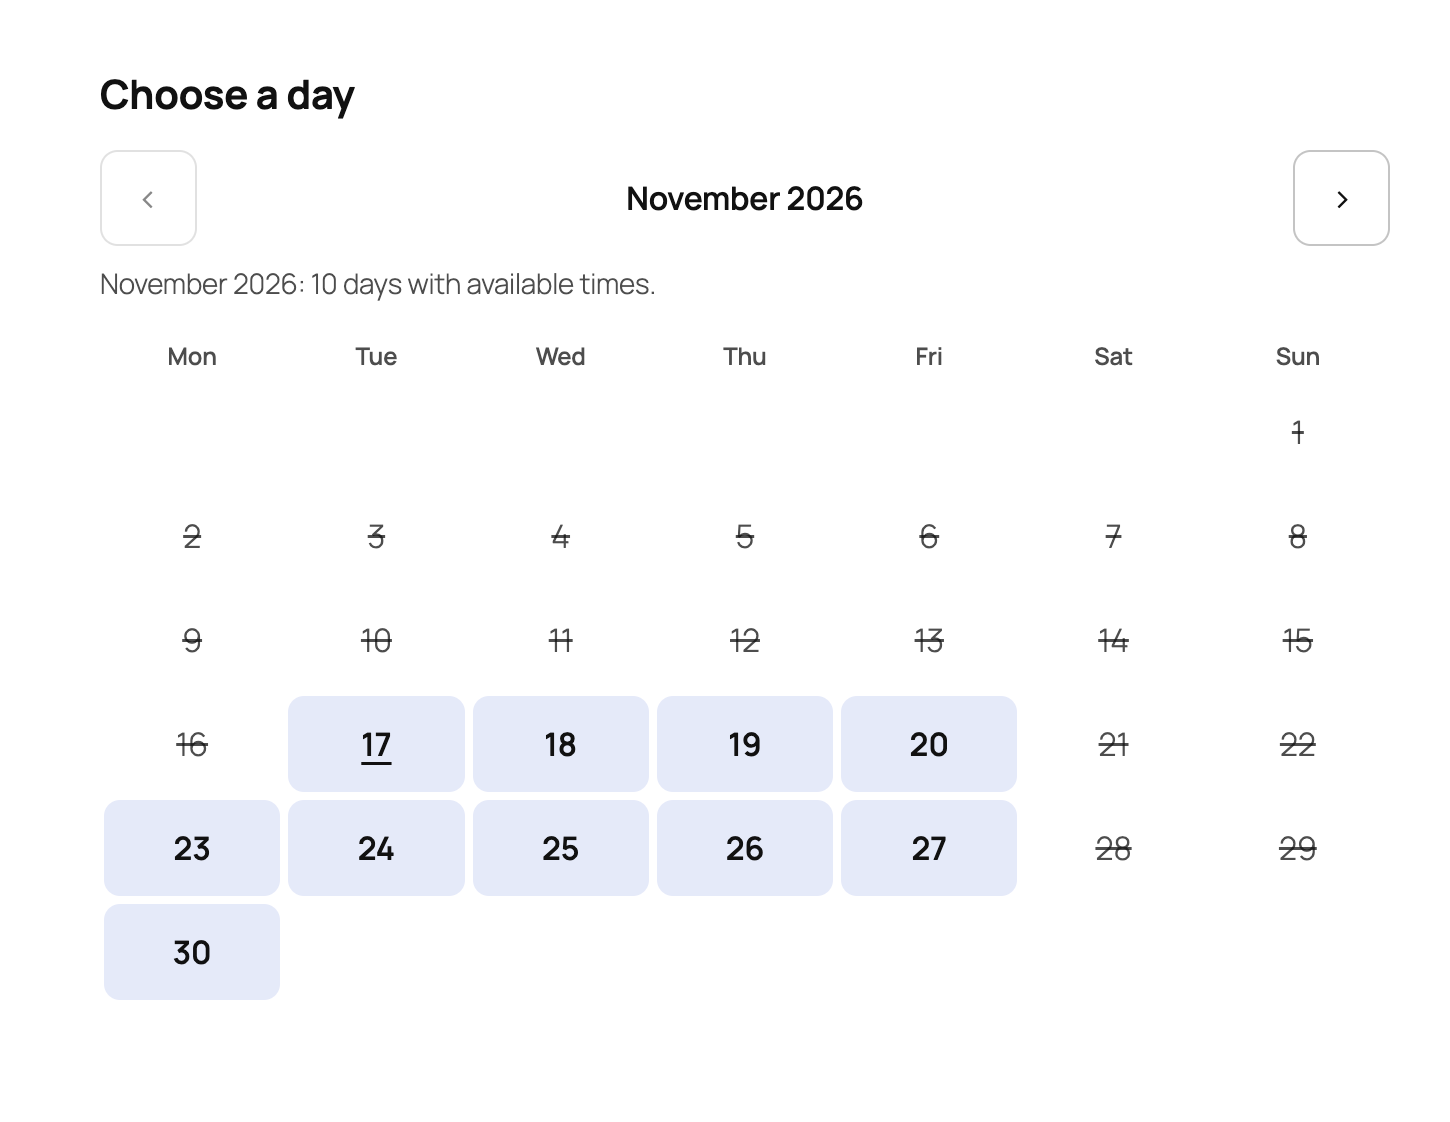
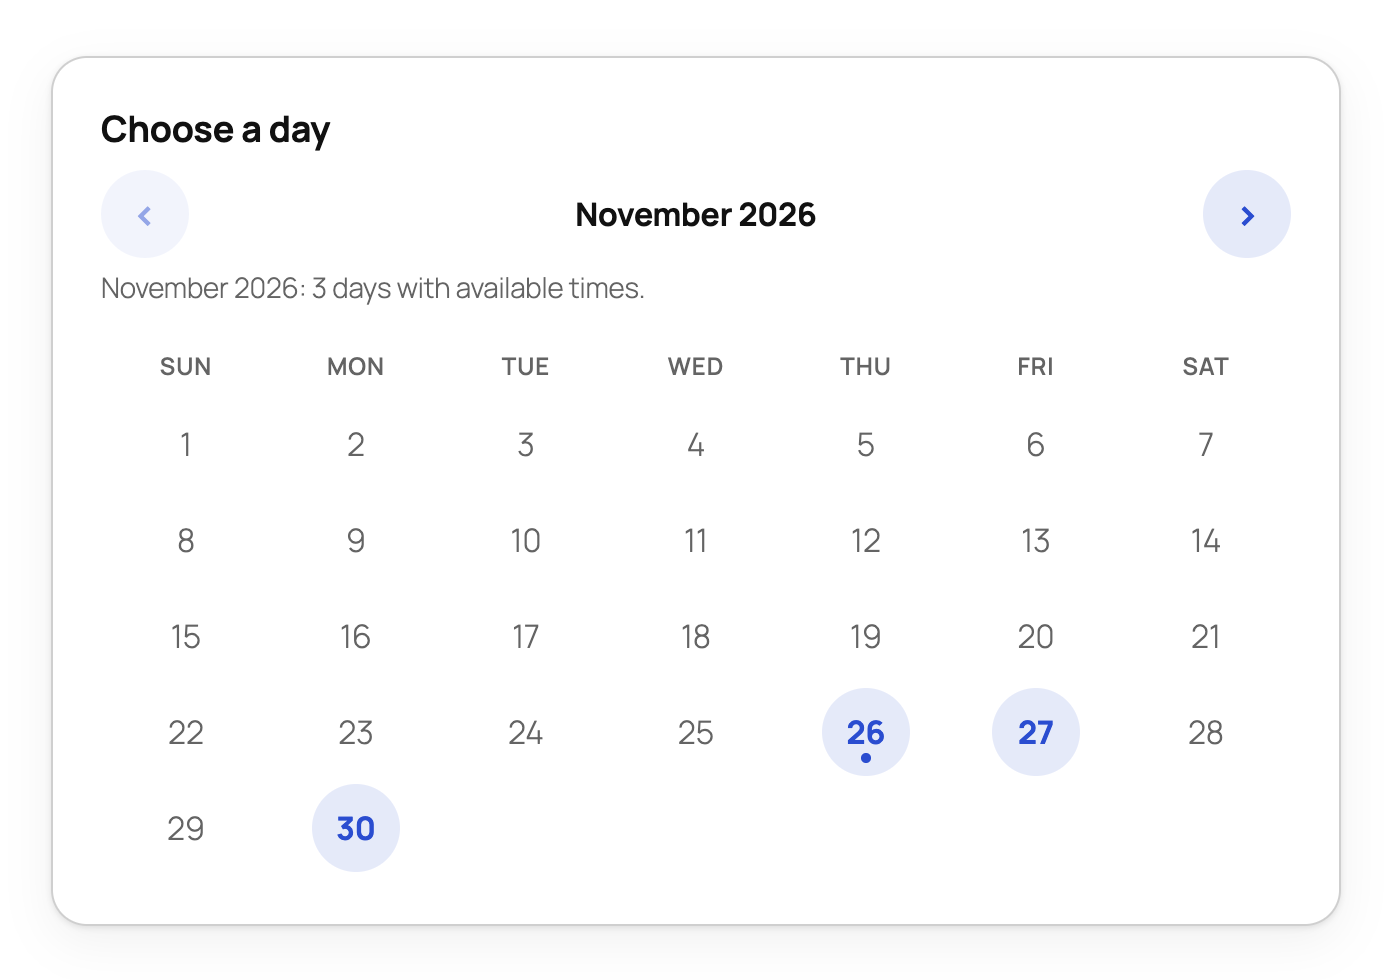
Update README screenshots for the new widget design

diff --git a/README.md b/README.md
@@ -4,7 +4,10 @@ Accessible appointment booking for WordPress and static sites. One Vue custom el
 
 _Hitzordu_ is Basque for "appointment".
 
-![The Hitzordu booking widget](docs/screenshot.png)
+<p>
+  <img src="docs/screenshot.png" alt="The Hitzordu booking widget: choosing a day on the month calendar" width="49%">
+  <img src="docs/screenshot-times.png" alt="The Hitzordu booking widget: choosing a time" width="49%">
+</p>
 
 ## Why
 
